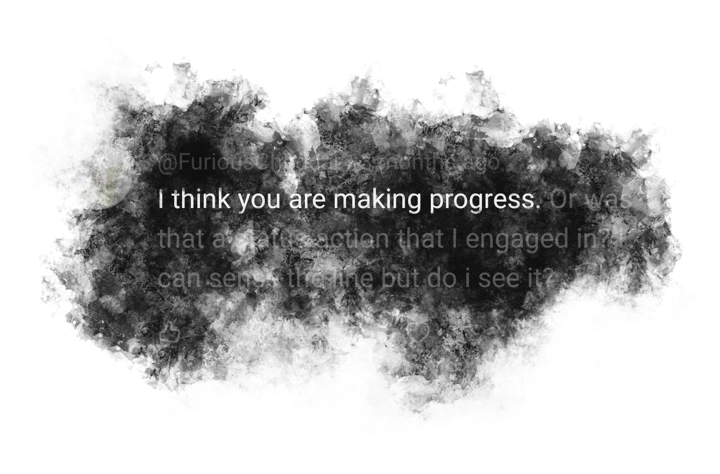
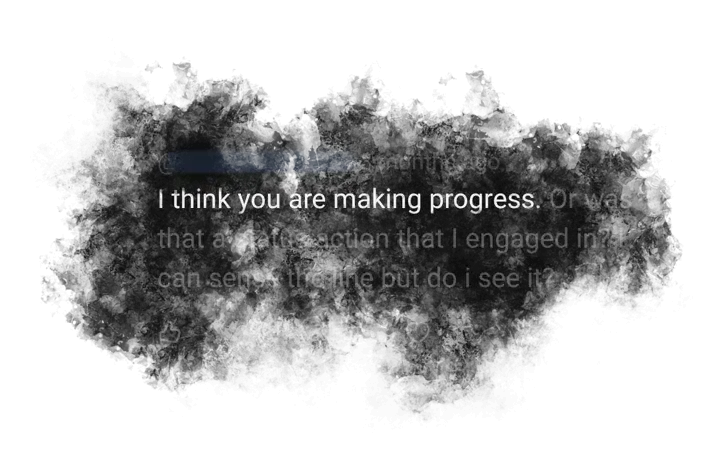
Blur out name in "progress" scene

Changed region(s): [[0.2139, 0.3249, 0.3972, 0.384], [0.1222, 0.3249, 0.1833, 0.443]]

diff --git a/door/index.html b/door/index.html
@@ -119,7 +119,7 @@
             <img src="assets/progress-1-interruption.webp" alt="" class="relic-img comment-left">
             <img src="assets/progress-2.webp" alt="" class="relic-img comment-right comment-strong">
             <img src="assets/progress-3-interruption.webp" alt="" class="relic-img comment-left comment-weak">
-            <img src="assets/progress-4-interruption.webp" alt="" class="relic-img comment-right comment-weak">
+            <img src="assets/progress-4-interruption.webp" alt="" class="relic-img comment-right comment-strong">
             <!-- <img src="assets/academic-3.webp" alt="" class="relic-img comment-right">
             <img src="assets/academic-4.webp" alt="" class="relic-img comment-left"> -->
 
